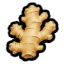
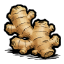
1

diff --git a/data/certificate/data.js b/data/certificate/data.js
@@ -278,6 +278,7 @@ PS：查理只会在夜晚出现
 - 可制作沼泽地皮
 - 可喂鱼人王，喂鱼人，让鱼人跟随成为小弟
 - 可以像鱼妹一样提前看见触手的位置
+- 青蛙不再主动攻击
 
 **设定：**
 - 只有鱼人王的守卫才有鱼人王任命书，普通鱼人只是平民
@@ -391,7 +392,7 @@ PS：查理只会在夜晚出现
     child: [
       {
         name: "番薯植株",
-        image: "cer_sweetpotato.png",
+        image: "cer_sweetpotato_oversized.png",
         code: "farm_plant_cer_sweetpotato",
         description: `
 随机种子可长出番薯植株
@@ -404,7 +405,7 @@ PS：查理只会在夜晚出现
       },
       {
         name: "生姜植株",
-        image: "cer_ginger.png",
+        image: "cer_ginger_oversized.png",
         code: "farm_plant_cer_ginger",
         description: `
 随机种子可长出生姜植株
@@ -417,7 +418,7 @@ PS：查理只会在夜晚出现
       },
       {
         name: "灯笼椒植株",
-        image: "cer_bellpepper.png",
+        image: "cer_bellpepper_oversized.png",
         code: "farm_plant_cer_bellpepper",
         description: `
 随机种子可长出生姜植株
